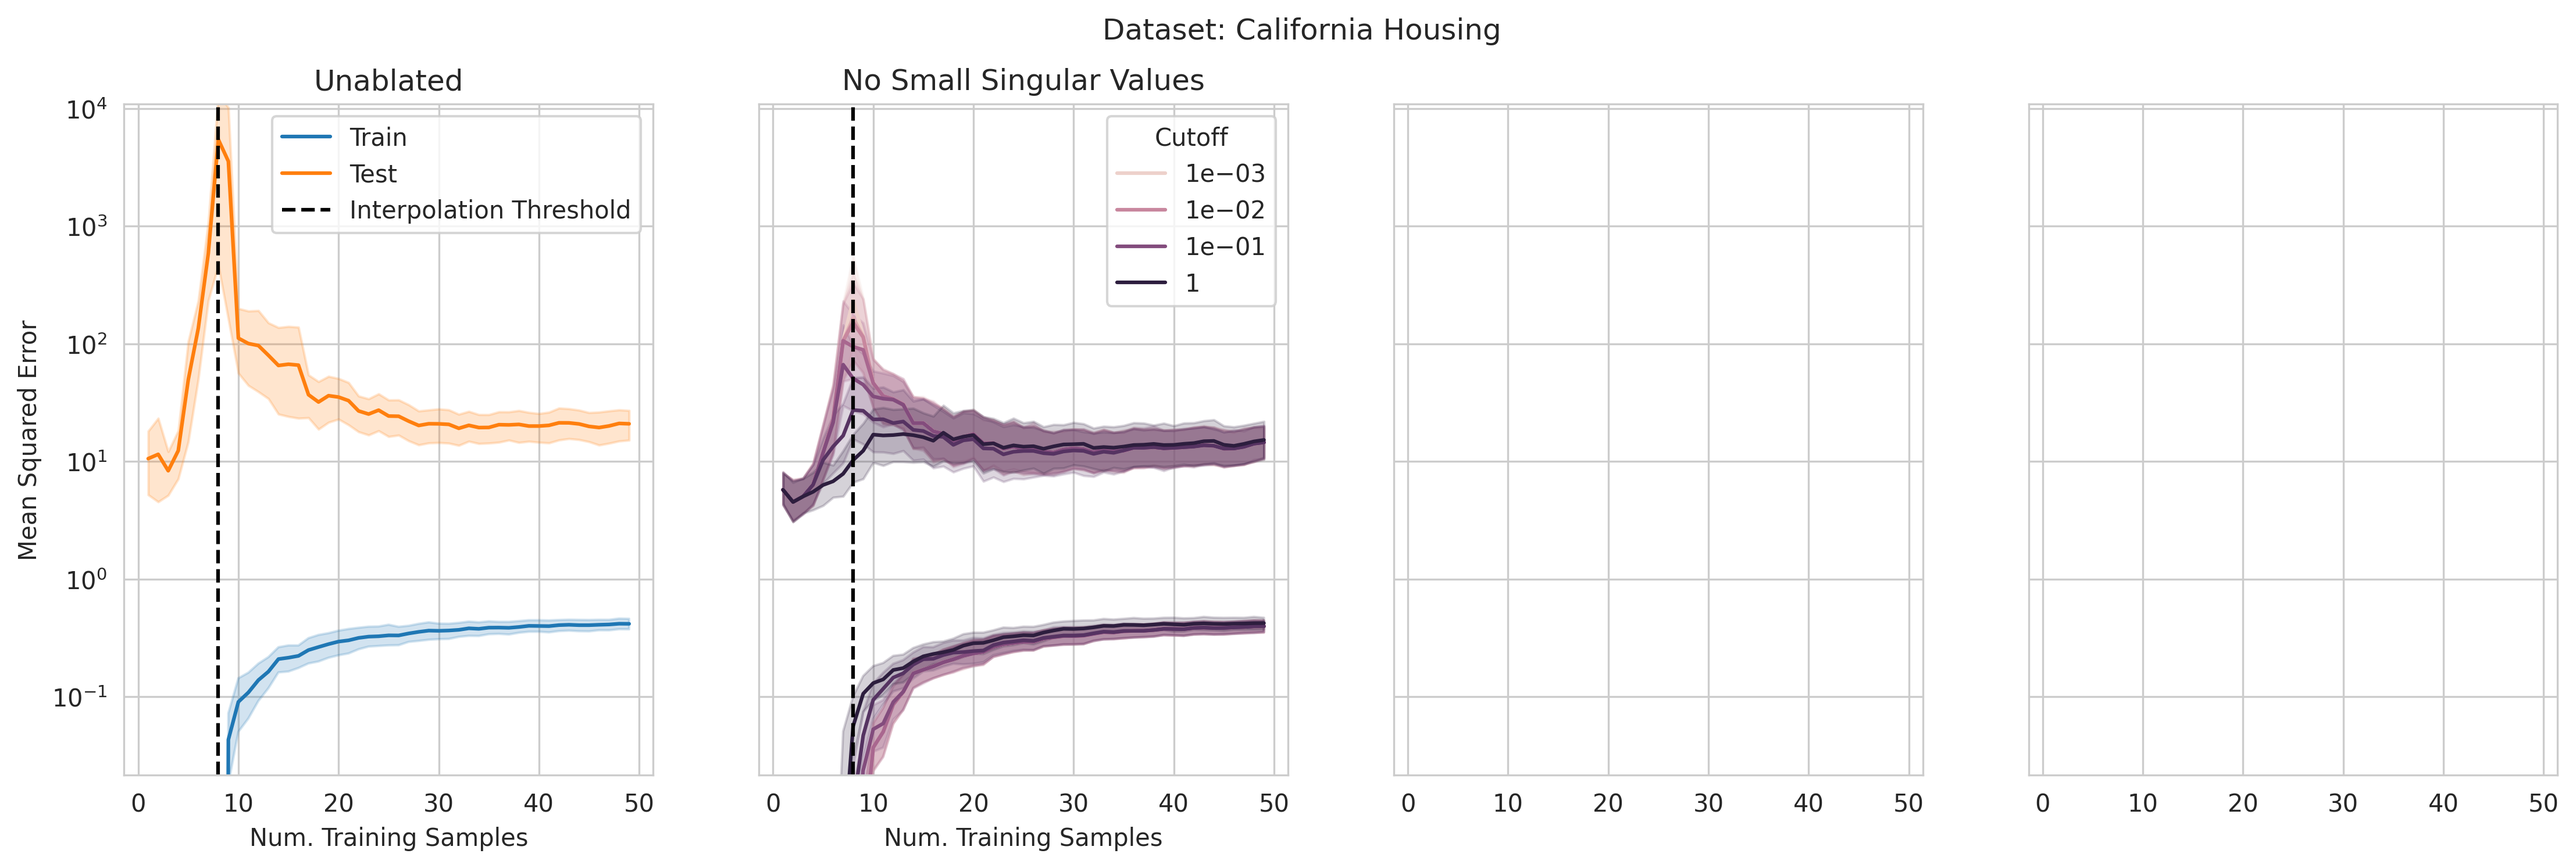
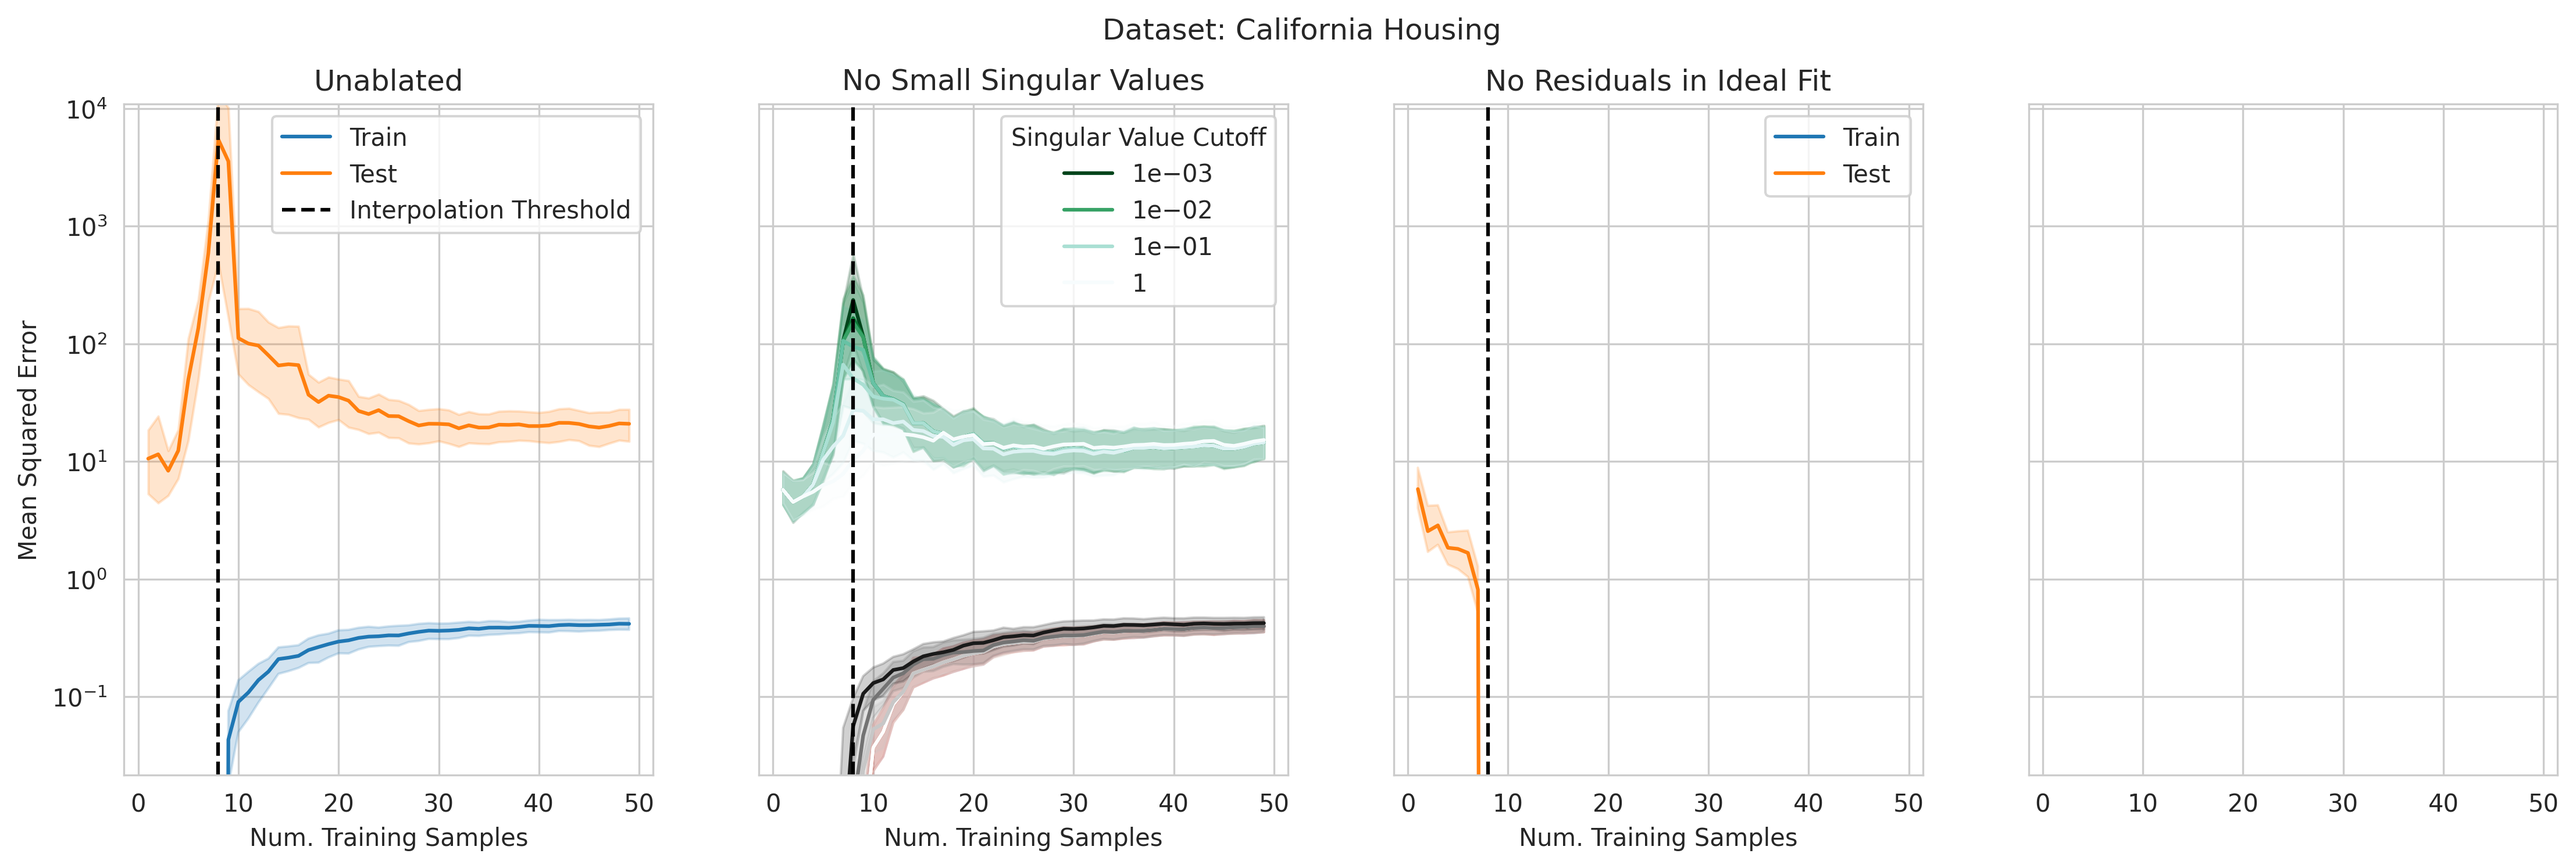
3/4th done with ablations

diff --git a/real_data_ablations.py b/real_data_ablations.py
@@ -58,7 +58,7 @@ os.makedirs(results_dir, exist_ok=True)
 ablation_type_strs = [
     'Unablated',
     'No Small Singular Values',
-    # 'No Residuals in Ideal Fit',
+    'No Residuals in Ideal Fit',
     # 'Test Datum Features in Training Feature Subspace',
 ]
 
@@ -72,10 +72,12 @@ for dataset_name, dataset_fn in regression_datasets:
     # One ablation will be to make the true underlying relationship linear and noiseless.
     # To do this, we need to know the ideal linear relationship. Unfortunately, we don't have
     # any way to know this in practice, so we'll use all the data as our best guess.
-    ideal_beta = np.linalg.inv(X.T @ X) @ X.T @ y
+    beta_ideal = np.linalg.inv(X.T @ X) @ X.T @ y
 
     dataset_loss_unablated_df = []
     dataset_loss_no_small_singular_values_df = []
+    dataset_loss_no_residuals_in_ideal_fit_df = []
+    dataset_loss_test_datum_features_in_training_feature_subspace_df = []
     for repeat_idx in range(num_repeats):
 
         # subset_sizes = np.arange(10, X_train.shape[0], X_train.shape[0] // 20)
@@ -98,7 +100,6 @@ for dataset_name, dataset_fn in regression_datasets:
             inverted_S = 1. / S
             inverted_S[inverted_S == np.inf] = 0.
             beta_hat = Vt.T @ np.diag(inverted_S) @ U.T @ y_train
-
             y_train_pred = X_train @ beta_hat
             train_mse_unablated = mean_squared_error(y_train, y_train_pred)
             y_test_pred = X_test @ beta_hat
@@ -135,7 +136,29 @@ for dataset_name, dataset_fn in regression_datasets:
             # END: No small singular values.
 
             # BEGIN: No residuals in ideal fit.
+            # Replace the true targets with the ideal possible predictions.
+            y_train_no_residuals = X_train @ beta_ideal
+            y_test_no_residuals = X_test @ beta_ideal
+            beta_hat_no_residuals = Vt.T @ np.diag(inverted_S) @ U.T @ y_train_no_residuals
+            y_train_pred_no_residuals = X_train @ beta_hat_no_residuals
+            train_mse_no_residuals = mean_squared_error(y_train_no_residuals, y_train_pred_no_residuals)
+            y_test_pred_no_residuals = X_test @ beta_hat_no_residuals
+            test_mse_no_residuals = mean_squared_error(y_test_no_residuals, y_test_pred_no_residuals)
+            dataset_loss_no_residuals_in_ideal_fit_df.append({
+                'Dataset': dataset_name,
+                'Subset Size': subset_size,
+                'Train MSE': train_mse_no_residuals,
+                'Test MSE': test_mse_no_residuals,
+                'Repeat Index': repeat_idx,
+            })
             # END: No residuals in ideal fit.
+
+            # # BEGIN: Test datum features in training feature subspace.
+            # y_train_pred = X_train @ beta_hat
+            # train_mse_unablated = mean_squared_error(y_train, y_train_pred)
+            # y_test_pred = X_test @ beta_hat
+            # test_mse_unablated = mean_squared_error(y_test, y_test_pred)
+            # # END: Test datum features in training feature subspace.
 
             # Compute the fraction of the last training datum that lies outside the subspace
             # of the all other training data.
@@ -150,8 +173,11 @@ for dataset_name, dataset_fn in regression_datasets:
 
 
     plt.close()
-    fig, axes = plt.subplots(nrows=1, ncols=4, figsize=(18, 5),
-                             sharex=True, sharey=True)
+    fig, axes = plt.subplots(nrows=1,
+                             ncols=4,
+                             figsize=(20, 5),
+                             sharex=True,
+                             sharey=True)
     fig.suptitle(f'Dataset: {dataset_name}')
     ax = axes[0]
     dataset_loss_unablated_df = pd.DataFrame(dataset_loss_unablated_df)
@@ -191,6 +217,7 @@ for dataset_name, dataset_fn in regression_datasets:
         legend=False,
         ax=ax,
         hue_norm=LogNorm(),
+        palette='OrRd_r',
     )
     sns.lineplot(
         data=dataset_loss_no_small_singular_values_df,
@@ -199,12 +226,39 @@ for dataset_name, dataset_fn in regression_datasets:
         hue='Singular Value Cutoff',
         ax=ax,
         hue_norm=LogNorm(),
+        palette='OrRd_r',
     )
     ax.set_xlabel('Num. Training Samples')
     ax.set_title('No Small Singular Values')
     ax.axvline(x=X.shape[1], color='black', linestyle='--')
     ax.set_yscale('log')
-    # ax.legend()
+
+    ax = axes[2]
+    dataset_loss_no_residuals_in_ideal_fit_df = pd.DataFrame(dataset_loss_no_residuals_in_ideal_fit_df)
+    ax.plot([1, dataset_loss_no_residuals_in_ideal_fit_df['Subset Size'].max()],
+            [ymin, ymin],
+            color='tab:blue',
+            linestyle='--',
+            label='Train = 0')
+    sns.lineplot(
+        data=dataset_loss_no_residuals_in_ideal_fit_df,
+        x='Subset Size',
+        y=f'Test MSE',
+        label='Test',
+        ax=ax,
+    )
+    # The test error will be 0 for all subset sizes >= X.shape[1]
+    # b/c the linear model exactly fits the linear data.
+    ax.plot([X.shape[1], dataset_loss_no_residuals_in_ideal_fit_df['Subset Size'].max()],
+            [ymin, ymin],
+            color='tab:orange',
+            linestyle='--',
+            label='Test = 0')
+    ax.set_xlabel('Num. Training Samples')
+    ax.set_title('No Residuals in Ideal Fit')
+    ax.axvline(x=X.shape[1], color='black', linestyle='--')
+    ax.set_yscale('log')
+    ax.legend()
 
     plt.savefig(os.path.join(results_dir,
                              f'double_descent_dataset={dataset_name}'),
